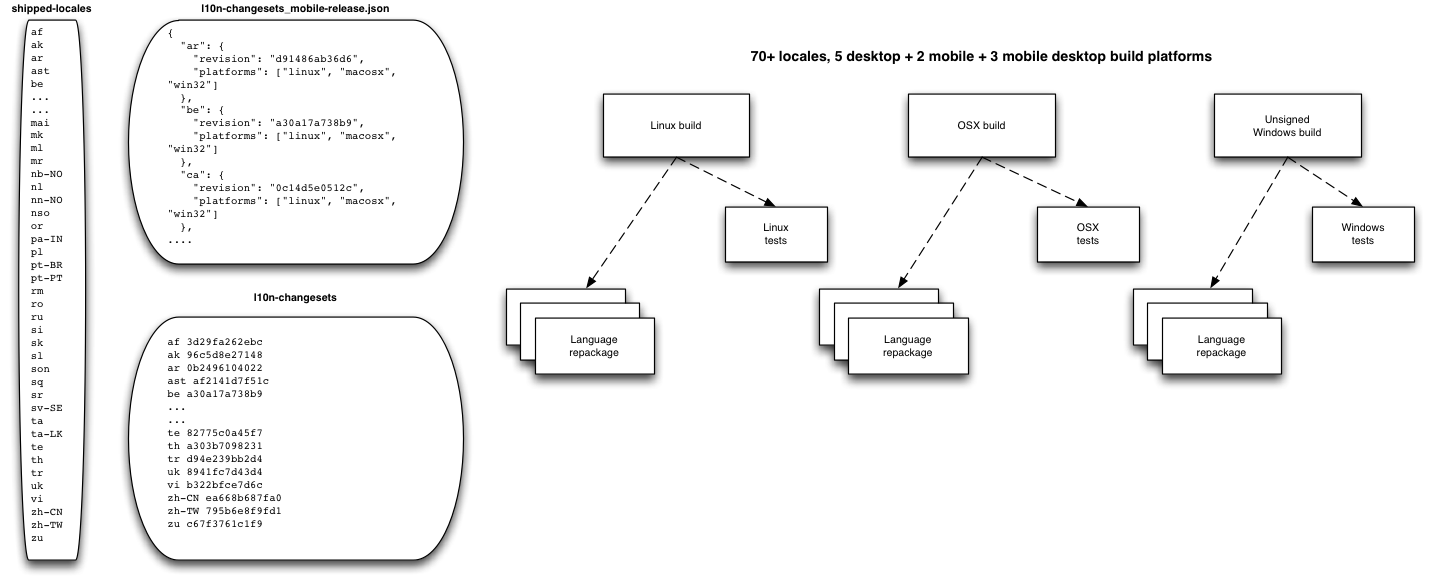
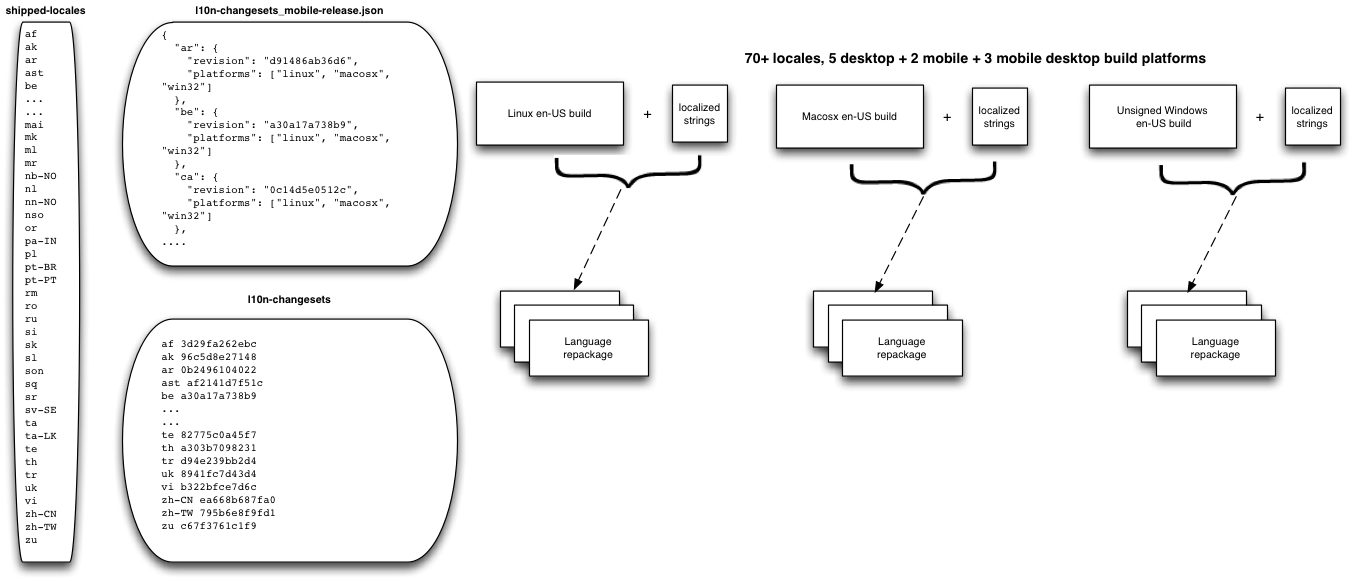
updates to diagrams & also addressing Ben's comments in email

diff --git a/web/en/ffreleng.html b/web/en/ffreleng.html
@@ -4,11 +4,15 @@
     <style type="text/css">
       div.inline { float:left; }
       code.class-name {
-        display: block;
+        margin: 1em;
+        padding: 1em;
+        display: inline-block;
         background: #ccc;
         border: 1px dotted #000;
-        width: 100%;
         overflow: auto;
+      }
+      .figure {
+        font-style: italic;
       }
     </style>
     <meta name="provenance" content="$Id$" />
@@ -315,10 +319,8 @@ can improve something, first you have to be able to measure it.
         <p>Figure&nbsp;6.2: Automated tagging</p>
       </div>
         <p>
-        One of the first steps in building Firefox is tagging all of
-        the related source code repositories to record which revision
-        of the source, locales, and related tools was used for the
-        release. A single Firefox release uses code from a half dozen
+        After a release enginneer prepares and tests the release configuration, the first automated step in the Firefox release process is tagging all of the related source code repositories to record which revision
+        of the source, language repos, and related tools are used for this version and build number of a release candidate. A single Firefox release uses code from about 85
         version control repositories that host things such as the
         product code, localization strings, release automation code, and
         helper utilities. Tagging all these repositories is, therefore,
@@ -356,16 +358,16 @@ can improve something, first you have to be able to measure it.
         that requires an immediate fix (a "chemspill" situation), the
         minimal set of changes to address the vulnerability will be
         landed on this relbranch and a new version of Firefox
-        released. When we have to do another round of builds for a particular release, buildN,  we use relbranches to be able to skip re-tagging.
+        released. When we have to do another round of builds for a particular release, buildN,  we use these relbranches to grab the same code that was signed off on for 'go to build' which is where any changes to that release code will have been landed, the automation starts again and bumps the tagging to the new changeset on that relbranch.
         </p>
         <p>
         Our tagging process does a <em>lot</em> of operations with
         local and remote mercurial (hg) repositories. To factor out
         some of the most common operations we've written a few tools
-        to assist us: <em>hgtool.py</em> and <em>retry.py</em>.
+        to assist us: <em><a href=http://hg.mozilla.org/build/mozharness/file/a0fce0162fd5/scripts/hgtool.py">hgtool.py</a></em> and <em><a href="http://hg.mozilla.org/build/tools/file/7adc08bd1386/lib/python/util/retry.py">retry.py</a></em>.
         </p>
         <p>
-        <em>retry.py</em> is a simple wrapper that can take a given command and
+        <em><a href="http://hg.mozilla.org/build/tools/file/7adc08bd1386/lib/python/util/retry.py">retry.py</a></em> is a simple wrapper that can take a given command and
         run it, retrying several times if it fails. It can also watch
         for exceptional output conditions and retry or report failure
         in those cases. We've found it useful to wrap retry.py around
@@ -378,7 +380,7 @@ can improve something, first you have to be able to measure it.
         release automation running again.
         </p>
         <p>
-        <em>hgtool.py</em> is a utility that encapsulates several common
+        <em><a href=http://hg.mozilla.org/build/mozharness/file/a0fce0162fd5/scripts/hgtool.py">hgtool.py</a></em> is a utility that encapsulates several common
         hg operations, like cloning/pulling/updating with a
         single invocation. It also adds support for hg's share
         extension, which we use extensively to avoid having to have
@@ -456,49 +458,24 @@ can improve something, first you have to be able to measure it.
         <p>Figure&nbsp;6.4: Signing of Firefox installers, partially automated</p>
       </div>
       <p>
-      <!-- XXX TODO more detail about what is signing, what it used to involve and how we shifted the process to be more embedded in automation XXX -->
-      In the not so distant past, the signing process was long, and involved a significant break from the release automation. Originally we automated everything up to the signing then after a while we added an FTPPoller to our buildbot change sources that watched for a win32_signing.log file to become available in the release candidates directory.  This signified the end of human signing (uploaded along with the signed bits) so we were able to continue automation from that point on by attaching dependent builders to that change.  Recently though, an additional wrapper of automation allows us to start an automated signing process on our keymaster with minimal human contact and once that has been enabled the release engineer can go on about other work without having to check in on signing while a simple set makefile targets does the heavy lifting.
+      Until recently doing so involved a release engineer on a signing master for almost an hour doing the steps of downloading builds, signing them, and uploading them back to FTP before the automation could continue. Once signing on the master is completed and all files have been uploaded a win32_signing.log file is uploaded to the release candidates directory.  This signifies the end of human signing and dependent builders watching for that file continue automation from that point on.  Recently though we've added an additional wrapper of automation around the signing steps. The release engineer merely starts an automated signing process on the signing master then goes off to do other work while a simple set makefile targets does the heavy lifting.
       </p>
       <p>
-      At some point after the release's builds are underway, the release engineer will log on to our keymaster, set up a few variables in a Cygwin shell pertaining to the release such as VERSION, BUILD, TAG, and a few other items needed by the makefile and then after checking out the most recent version of our signing tools they simply do a 'make autosign' call to start a download loop that trolls our FTP candidates directory for the complete set of deliverables for a release.  They will need to enter 2 passphrases, gpg and signcode. This includes builds & localized repacks for each platform, the source tarball, and any partner-repacks for a release. Once the last item has showed up (all items progressively downloaded as available) signing can start right away. We use signcode.exe for the win32 bits and then do gpg signatures on the other platforms, all signed bits have an MD5SUM and SHA1SUM written to files of the same name. When all signed bits are available and verified (we do a quick and more in-depth verification process) they are uploaded back to FTP along with the signing log file that the automation is waiting for to proceed.
+      The engineer will open a Cygwin shell on the signing master and set up a few environment variables pertaining to the release like VERSION, BUILD, TAG, RELEASE_CONFIG that help the script find the right directories on FTP and know when all the deliverables for a release have been downloaded so that the signing can start. After checking out the most recent version of our signing tools they simply do a 'make autosign'. The engineer will need to manually enter 2 passphrases, gpg and signcode which are verified by the make scripts then it starts a download loop that watches for uploaded builds & repacks from the release automation.  Once the last item has showed up (all items progressively downloaded as available) signing starts right away which is a great improvement as this can happen during non-work hours and provide our QA team with signed installers to test promptly without waiting for an engineer to come on shift. The win32 installers are signed with Authenticode and then we generate gpg signatures for the other platforms, all delieverables will have an MD5SUM and SHA1SUM generated for them and those hash values are written to files of the same name. These files will be uploaded back to the release-candidates directory as well as synced into the final home of a release once it is live so that anyone who downloads a Firefox installer from our mirrors can ensure they got the correct object. When all signed bits are available and verified (we do a quick and more in-depth verification process) they are uploaded back to FTP along with the signing log file that the automation is waiting for to proceed.
       </p>
-      <h3>make autosign targets</h3>
-      <dl>
-        <dt>df</dt>
-            <dd>Checks that enough disk space is available for signing - a Firefox release needs ~30 GB free</dd>
-        <dt>verify-gpg-passphrase</dt>
-            <dd>Compares the gpg passphrase entered by the release engineer to the one on disk to ensure they match</dd>
-        <dt>verify-signcode-passphrase</dt>
-            <dd>Compares the signcode passphrase entered by the release engineer to the one on disk to ensure they match</dd>
-        <dt>setup</dt>
-            <dd>Pull/copy the required tools: 7-Zip, mar.exe, upx, pgp-keys, signing scripts</dd>
-        <dt>stubs</dt>
-            <dd>Additional 7-Zip tools (from cvs or hg depending on release version)</dd>
-        <dt>download-loop</dt>
-            <dd>Periodically checks the candidates directory for deliverables until all the bits for the release have been located and downloaded. It uses the release configs to determine the complete set of deliverables</dd>
-        <dt>verify-download</dt>
-            <dd>Confirms that all deliverables have been downloaded to an unsigned directory on the signing machine</dd>
-        <dt>sign</dt>
-            <dd>Runs sub-targets: sign-files checksum-files create-sigs verify-sigs quick-verify. This step generates the signatures, also the sums for MD5SUM and SHA1SUM files and does a quick-verify on a trimmed down list with a locale selected at random</dd>
-        <dt>stage</dt>
-            <dd>Runs sub-targets: create-contrib fix-permissions.  We have to generate a couple of directories for community releases (solaris & spark) and also make sure the files are owned by the right account prior to uploading back to FTP</dd>
-        <dt>verify</dt>
-            <dd>Runs sub-targets: verify-signatures verify-win32 verify-asc.  Verifies that installer signing is valid and can be traced back to a valid root certificate for all the win32 locales, ensures that every exe and mar in the signed-build directory differs from its unsigned counterpart, and finally makes sure we have asc files for every build in the signed dir</dd>
-        <dt>postsign</dt>
-            <dd>Runs sub-targets: upload upload-log verify-signatures2. Uploads the signed bits to FTP, the signing log, and then does one more in-depth signature verification comparing the full list of unsigned locales to their signed counterparts to make sure they are different</dd>
-      </dl>
       <p>
-      <!-- XXX add a paragraph here about the plans for sign-on-demand XXX -->
+      Our next round of improvements to the signing process will be creating a sign-on-demand tool. Signing each delieverable as it's ready will even further decrease the end to end time and will also allow the signing of other deliverables outside of a release, for example nightly builds.
+      <!-- XXX I don't know what else to say here, Catlee do you want to talk about how it will work? -->
       </p>
     </div>
     <div class="sect">
       <h2>6.5 Updates</h2>
       <p>
-      We generate a LOT of updates.  Every platform, every locale, every installer from Firefox N -> Firefox NOW in both complete and partial forms.  Depending on the version, our updates can go back as far as 4 or 5 versions, include dot releases from security fixes, and sometimes even betas. Our automation bumps our update configuration files on each run to maintain our list of what versions, platforms, and locales need to have updates generated to be able to offer our users the newest release. We offer updates as 'snippets' which you'll see an example of below, simply an xml pointer file hosted on our AUS (Automated Update Server) that informs the user's Firefox of where complete and/or partial .mar (Mozilla Archive) files are hosted.
+      We generate a LOT of updates.  Every platform, every locale, every installer from Firefox N -> Firefox NOW in both complete and partial forms.  Depending on the branch, we generate updates for all supported previous releases from that branch. Our automation bumps the update configuration files of each release's build off a branch to maintain our cannonical list of what version numbers, platforms, and localizations need to have updates created to offer users this newest release. We offer updates as 'snippets' which you'll see an example of below, simply an xml pointer file hosted on our AUS (Application Update Service) that informs the user's Firefox of where complete and/or partial .mar (Mozilla Archive) files are hosted.
       </p>
       <h4>Major vs. Minor</h4>
       <p>
-      As you'll see in the snippet sample below, we have a type setting for updates. Most updates fall into the "minor" category which means that, for the user, the downloading of the partial update package (though sometimes it's the complete when that is the only update available for a particular version/platform) happens quietly in the background and when it's ready to be applied the user is informed of this and given the option to apply & restart.  Minor updates are used to keep people up to date within their channel: beta releases update to the next beta release, nightlies to the following night's build.  Major updates have been used when we needed to advertise to our users that the latest & greatest release was available and to prompt the user letting them know "A new version of Firefox is available, would you like to update?". With our new rapid-release versions, we no longer need to do as many major updates. We'll do them only occasionally when we are hoping to pull more users up from supported versions that are prior to the rapid-release process.
+      As you'll see in the snippet sample below, we have a type setting for updates. Most updates fall into the "minor" category which means that, for the user, the downloading of the partial update package (though sometimes it's the complete when that is the only update available for a particular version/platform) happens quietly in the background and when it's ready to be applied the user is informed of this and given the option to apply & restart.  Minor updates are used to keep people up to date within their channel: beta releases update to the next beta release, nightlies to the following night's build.  Major updates have been used when we needed to advertise to our users that the latest & greatest release was available and to prompt the user letting them know "A new version of Firefox is available, would you like to update?". Our new rapid-release versions means no longer needing to do as many major updates, we'll be able to stop generating them once 3.6.* is no longer supported.
       </p>
       <h4>Sample Update Snippet</h4>
       <code class="class-name">
@@ -511,8 +488,7 @@ can improve something, first you have to be able to measure it.
       </code>
       <h4>What's in an update?</h4>
       <p>
-      <!-- XXX TODO - more clarity on what complete is comp. to standalone (not an installer, no channel prefs) -- we do complete updates so we can auto-update instead of pointing to new installers -- we strip out prefs.js to keep people in the auto-update streams on the right channels  XXX -->
-      At build time we generate complete mars which contain all the bits for the new version compressed with bz2 and then archived in a mar file. Complete mars are applied using our updater binary and the main difference between a complete update and a standalone version is the lack of a <em>defaults/prefs/channel-prefs.js</em> file which sets the update channel the application reads from. Partial mars are created by doing a binary diff of the old version's complete mar to the new version's and creating a mar containing the diff along with a manifest. As you can see in the sample snippet above, this results in a much smaller file size. In older versions of our update automation the generation of partial updates could take 6-7 hours as each locale, for each platform had the complete mars downloaded, diffed, then packed up for a partial update.  Eventually it was discovered that even across platforms, very few components actually had changes and with a script that started to cache the hashes for diffs our partial update creation time was brought down to ~40 minutes. After the snippets have been uploaded and are hosted on AUS, an update verification step is run to a) test downloading the snippets and b) run the updater with the snippet to confirm that it applies correctly.
+      At build time we generate complete mars which contain all the bits for the new release compressed with bz2 and then archived in a mar file. Complete updates are created so users can be auto-updated using our updater binary instead of having to point to (and having the user download) a standalone installer. Both complete and partial updates are downloaded automatically through the update channel a user is on. Partial update mars are created by doing a binary diff of the old version's complete mar to the new version's and creating the mar with the diff and a manifest file. As you can see in the sample snippet above, this results in a much smaller file size for partial updates. In older versions of our update automation the generation of partial updates could take 6-7 hours as each locale, for each platform had the complete mars downloaded, diffed, then packed up for a partial update.  Eventually it was discovered that even across platforms, many component changes were identical and so with a script that cached the hash for each part of the diff our partial update creation time was brought down to ~40 minutes since so many changes could be re-used. After the snippets have been uploaded and are hosted on AUS, an update verification step is run to a) test downloading the snippets and b) run the updater with the downloaded mar to confirm that the updates apply correctly.
       </p>
       <p>
       <!-- XXX TODO: add a section for future improvements, doing update generation as part of build & repack, not having to deal with snippets anymore - what's balrog?  (aka AUS 3) it eats snippet for breakfast.   
@@ -536,7 +512,7 @@ can improve something, first you have to be able to measure it.
       users would be able to update from the previous release to the current
       one. 
       </p>
-      <p>We also push the binaries to our internal mirrors to help us
+      <p>We also push the binaries to our internal mirrors (mozilla hosted storage, later we make this available to our community mirrors for wider availability) to help us
       handle the load of users requesting their updates rather than
       reaching ftp directly. In the case of betas this is around
       of one million users. Notice that users don't get the updates until
